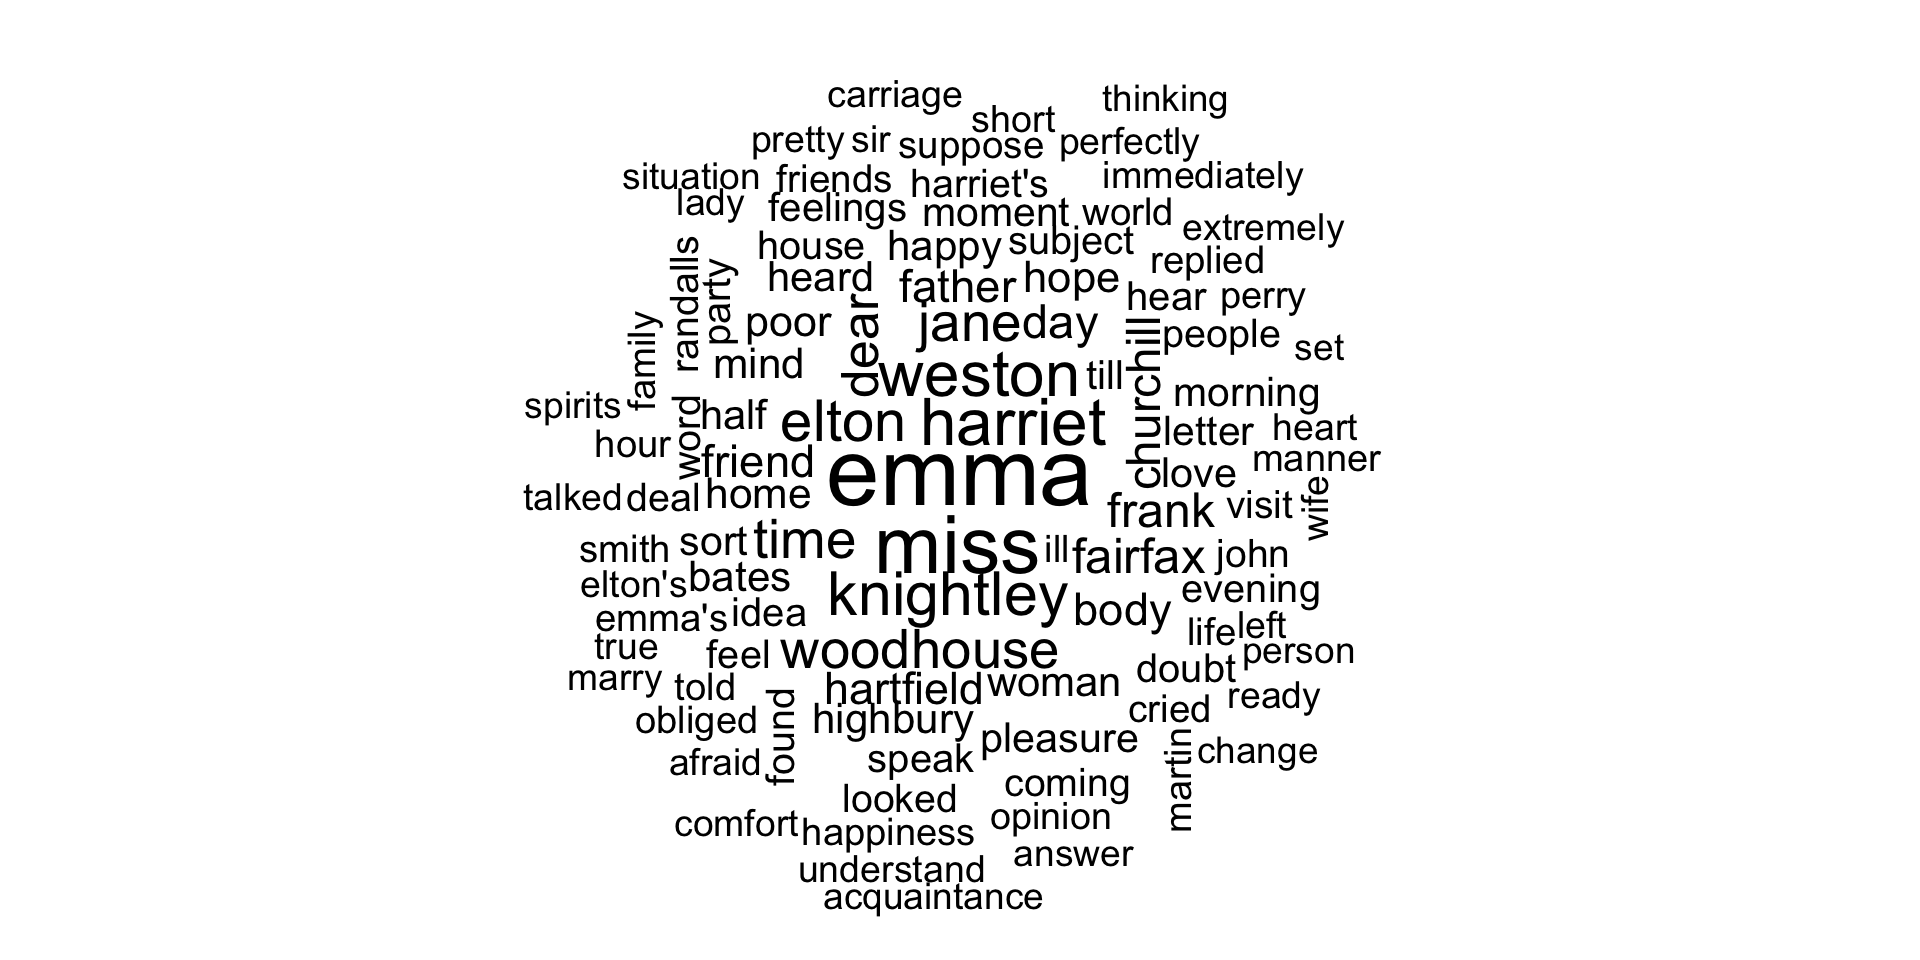
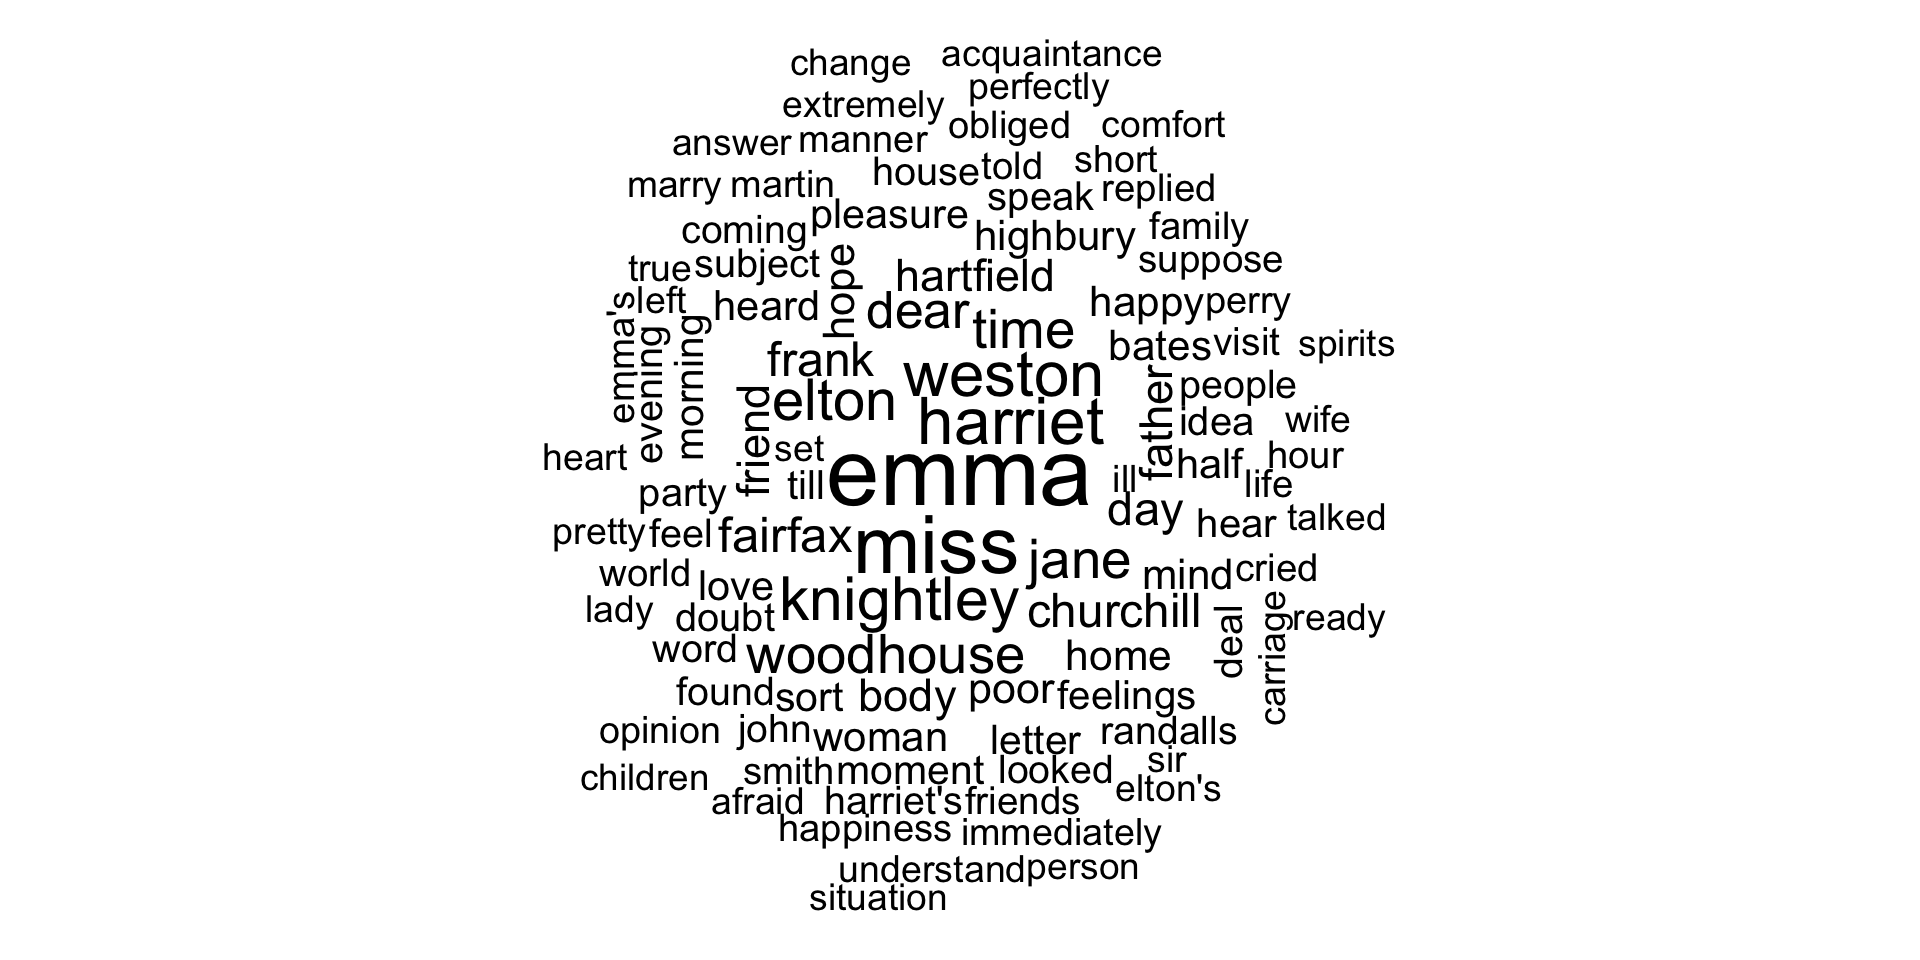
Done with 264!

Changed region(s): [[0.25, 0.0312, 0.75, 0.9688]]

diff --git a/tip_of_the_day/R_tip_of_the_day_slides.html b/tip_of_the_day/R_tip_of_the_day_slides.html
@@ -469,7 +469,7 @@ Solveig Senf
 <span id="cb3-8"><a href=""></a>  <span class="fu">filter</span>(book <span class="sc">==</span> <span class="st">"Emma"</span>) <span class="sc">|&gt;</span></span>
 <span id="cb3-9"><a href=""></a>  <span class="fu">slice_max</span>(<span class="at">order_by =</span> freq, <span class="at">n =</span> <span class="dv">200</span>, <span class="at">with_ties =</span> <span class="cn">FALSE</span>) <span class="sc">|&gt;</span></span>
 <span id="cb3-10"><a href=""></a>  <span class="fu">mutate</span>(<span class="at">freq =</span> <span class="fu">as.numeric</span>(freq),</span>
-<span id="cb3-11"><a href=""></a>         <span class="at">freq =</span> freq<span class="sc">/</span><span class="dv">10</span>) <span class="sc">|&gt;</span></span>
+<span id="cb3-11"><a href=""></a>         <span class="at">freq =</span> freq<span class="sc">/</span><span class="dv">10</span>) <span class="sc">|&gt;</span> </span>
 <span id="cb3-12"><a href=""></a>  <span class="fu">rename</span>(<span class="st">"words"</span> <span class="ot">=</span> <span class="st">"word"</span>) <span class="sc">|&gt;</span></span>
 <span id="cb3-13"><a href=""></a>  <span class="fu">select</span>(<span class="sc">-</span>book)</span></code><button title="Copy to Clipboard" class="code-copy-button"><i class="bi"></i></button></pre></div>
 </section>
@@ -514,8 +514,8 @@ Solveig Senf
 <span id="cb7-2" class="hljs-ln-code"><a href=""></a>           <span class="at">color =</span> <span class="st">"random-dark"</span>)</span></code><button title="Copy to Clipboard" class="code-copy-button"><i class="bi"></i></button></pre></div>
 <div class="cell">
 <div class="cell-output-display">
-<div class="wordcloud2 html-widget html-fill-item" id="htmlwidget-22893948050e8f9f5805" style="width:960px;height:480px;"></div>
-<script type="application/json" data-for="htmlwidget-22893948050e8f9f5805">{"x":{"word":["emma","miss","harriet","weston","knightley","elton","jane","time","woodhouse","dear","fairfax","frank","churchill","day","father","friend","body","hartfield","hope","poor","home","mind","bates","happy","highbury","woman","heard","half","love","pleasure","sort","moment","letter","morning","feelings","till","hear","idea","speak","doubt","subject","evening","party","feel","house","word","people","deal","found","harriet's","looked","randalls","coming","john","visit","friends","cried","suppose","life","world","emma's","replied","hour","smith","told","family","happiness","obliged","manner","perry","ill","martin","opinion","immediately","short","carriage","left","pretty","understand","elton's","perfectly","extremely","heart","lady","ready","sir","talked","true","wife","afraid","comfort","answer","situation","spirits","acquaintance","marry","person","set","change","bad","children","talk","thinking","account","assure","attention","dare","superior","leave","equal","mother","chapter","degree","feeling","isabella","return","sense","walk","business","imagine","passed","brought","cold","hand","manners","minutes","talking","aunt","bear","natural","read","satisfied","walked","care","directly","eyes","usual","weston's","affection","agreeable","days","glad","rest","appeared","brother","cole","dinner","donwell","words","ah","attachment","means","remember","society","wished","daughter","door","pleased","voice","believed","girl","giving","speaking","air","ladies","london","married","walking","called","farther","smile","son","stay","strong","campbell","character","hoped","meant","regard","respect","call","conversation","fine","proper","real","spoke","delightful","impossible","nature","pleasant","power","reason","allowed","beginning","expected","head","kindness","night","sitting","taylor"],"freq":[78.5,59.9,41.5,38.9,35.6,31.9,28.1,27.9,27.7,24.1,21,20,19.3,18.6,16.8,16.6,16.4,15.9,14.3,13.6,13,12.8,12.6,12.5,12.5,12.2,12,11.8,11.7,11.5,11.2,11,10.9,10.8,10.2,10.2,10,10,9.9,9.800000000000001,9.699999999999999,9.6,9.6,9.5,9.5,9.4,9.300000000000001,9.199999999999999,9.199999999999999,9.1,9.1,9,8.9,8.800000000000001,8.6,8.199999999999999,8.1,8.1,8,8,7.9,7.9,7.8,7.8,7.8,7.7,7.6,7.6,7.5,7.4,7.2,7.2,7.1,7,7,6.9,6.8,6.8,6.8,6.7,6.7,6.6,6.6,6.6,6.6,6.6,6.6,6.6,6.6,6.5,6.5,6.4,6.4,6.4,6.3,6.3,6.3,6.3,6.1,6,6,6,6,5.9,5.9,5.9,5.9,5.9,5.8,5.7,5.7,5.6,5.6,5.6,5.6,5.6,5.6,5.6,5.5,5.5,5.5,5.4,5.4,5.3,5.3,5.3,5.3,5.2,5.2,5.2,5.2,5.2,5.2,5.1,5.1,5.1,5.1,5.1,5,5,5,5,5,4.9,4.9,4.9,4.9,4.9,4.9,4.8,4.8,4.8,4.8,4.8,4.8,4.7,4.7,4.7,4.7,4.6,4.6,4.6,4.6,4.5,4.5,4.5,4.5,4.5,4.4,4.4,4.4,4.4,4.4,4.4,4.3,4.3,4.3,4.3,4.3,4.3,4.2,4.2,4.2,4.2,4.2,4.2,4.1,4.1,4.1,4.1,4.1,4.1,4,4,4,4,4,4,4,4],"fontFamily":"Segoe UI","fontWeight":"bold","color":"random-dark","minSize":0,"weightFactor":2.292993630573248,"backgroundColor":"white","gridSize":0,"minRotation":-0.7853981633974483,"maxRotation":0.7853981633974483,"shuffle":true,"rotateRatio":0.4,"shape":"circle","ellipticity":0.65,"figBase64":null,"hover":null},"evals":[],"jsHooks":[]}</script>
+<div class="wordcloud2 html-widget html-fill-item" id="htmlwidget-ed85d5486e51364a1e58" style="width:960px;height:480px;"></div>
+<script type="application/json" data-for="htmlwidget-ed85d5486e51364a1e58">{"x":{"word":["emma","miss","harriet","weston","knightley","elton","jane","time","woodhouse","dear","fairfax","frank","churchill","day","father","friend","body","hartfield","hope","poor","home","mind","bates","happy","highbury","woman","heard","half","love","pleasure","sort","moment","letter","morning","feelings","till","hear","idea","speak","doubt","subject","evening","party","feel","house","word","people","deal","found","harriet's","looked","randalls","coming","john","visit","friends","cried","suppose","life","world","emma's","replied","hour","smith","told","family","happiness","obliged","manner","perry","ill","martin","opinion","immediately","short","carriage","left","pretty","understand","elton's","perfectly","extremely","heart","lady","ready","sir","talked","true","wife","afraid","comfort","answer","situation","spirits","acquaintance","marry","person","set","change","bad","children","talk","thinking","account","assure","attention","dare","superior","leave","equal","mother","chapter","degree","feeling","isabella","return","sense","walk","business","imagine","passed","brought","cold","hand","manners","minutes","talking","aunt","bear","natural","read","satisfied","walked","care","directly","eyes","usual","weston's","affection","agreeable","days","glad","rest","appeared","brother","cole","dinner","donwell","words","ah","attachment","means","remember","society","wished","daughter","door","pleased","voice","believed","girl","giving","speaking","air","ladies","london","married","walking","called","farther","smile","son","stay","strong","campbell","character","hoped","meant","regard","respect","call","conversation","fine","proper","real","spoke","delightful","impossible","nature","pleasant","power","reason","allowed","beginning","expected","head","kindness","night","sitting","taylor"],"freq":[78.5,59.9,41.5,38.9,35.6,31.9,28.1,27.9,27.7,24.1,21,20,19.3,18.6,16.8,16.6,16.4,15.9,14.3,13.6,13,12.8,12.6,12.5,12.5,12.2,12,11.8,11.7,11.5,11.2,11,10.9,10.8,10.2,10.2,10,10,9.9,9.800000000000001,9.699999999999999,9.6,9.6,9.5,9.5,9.4,9.300000000000001,9.199999999999999,9.199999999999999,9.1,9.1,9,8.9,8.800000000000001,8.6,8.199999999999999,8.1,8.1,8,8,7.9,7.9,7.8,7.8,7.8,7.7,7.6,7.6,7.5,7.4,7.2,7.2,7.1,7,7,6.9,6.8,6.8,6.8,6.7,6.7,6.6,6.6,6.6,6.6,6.6,6.6,6.6,6.6,6.5,6.5,6.4,6.4,6.4,6.3,6.3,6.3,6.3,6.1,6,6,6,6,5.9,5.9,5.9,5.9,5.9,5.8,5.7,5.7,5.6,5.6,5.6,5.6,5.6,5.6,5.6,5.5,5.5,5.5,5.4,5.4,5.3,5.3,5.3,5.3,5.2,5.2,5.2,5.2,5.2,5.2,5.1,5.1,5.1,5.1,5.1,5,5,5,5,5,4.9,4.9,4.9,4.9,4.9,4.9,4.8,4.8,4.8,4.8,4.8,4.8,4.7,4.7,4.7,4.7,4.6,4.6,4.6,4.6,4.5,4.5,4.5,4.5,4.5,4.4,4.4,4.4,4.4,4.4,4.4,4.3,4.3,4.3,4.3,4.3,4.3,4.2,4.2,4.2,4.2,4.2,4.2,4.1,4.1,4.1,4.1,4.1,4.1,4,4,4,4,4,4,4,4],"fontFamily":"Segoe UI","fontWeight":"bold","color":"random-dark","minSize":0,"weightFactor":2.292993630573248,"backgroundColor":"white","gridSize":0,"minRotation":-0.7853981633974483,"maxRotation":0.7853981633974483,"shuffle":true,"rotateRatio":0.4,"shape":"circle","ellipticity":0.65,"figBase64":null,"hover":null},"evals":[],"jsHooks":[]}</script>
 </div>
 </div>
 </section>
@@ -528,8 +528,8 @@ Solveig Senf
 <span id="cb8-5"><a href=""></a>           <span class="at">shape =</span> <span class="st">'star'</span>)</span></code><button title="Copy to Clipboard" class="code-copy-button"><i class="bi"></i></button></pre></div>
 <div class="cell">
 <div class="cell-output-display">
-<div class="wordcloud2 html-widget html-fill-item" id="htmlwidget-2985abfe0ce497339f8e" style="width:960px;height:480px;"></div>
-<script type="application/json" data-for="htmlwidget-2985abfe0ce497339f8e">{"x":{"word":["emma","miss","harriet","weston","knightley","elton","jane","time","woodhouse","dear","fairfax","frank","churchill","day","father","friend","body","hartfield","hope","poor","home","mind","bates","happy","highbury","woman","heard","half","love","pleasure","sort","moment","letter","morning","feelings","till","hear","idea","speak","doubt","subject","evening","party","feel","house","word","people","deal","found","harriet's","looked","randalls","coming","john","visit","friends","cried","suppose","life","world","emma's","replied","hour","smith","told","family","happiness","obliged","manner","perry","ill","martin","opinion","immediately","short","carriage","left","pretty","understand","elton's","perfectly","extremely","heart","lady","ready","sir","talked","true","wife","afraid","comfort","answer","situation","spirits","acquaintance","marry","person","set","change","bad","children","talk","thinking","account","assure","attention","dare","superior","leave","equal","mother","chapter","degree","feeling","isabella","return","sense","walk","business","imagine","passed","brought","cold","hand","manners","minutes","talking","aunt","bear","natural","read","satisfied","walked","care","directly","eyes","usual","weston's","affection","agreeable","days","glad","rest","appeared","brother","cole","dinner","donwell","words","ah","attachment","means","remember","society","wished","daughter","door","pleased","voice","believed","girl","giving","speaking","air","ladies","london","married","walking","called","farther","smile","son","stay","strong","campbell","character","hoped","meant","regard","respect","call","conversation","fine","proper","real","spoke","delightful","impossible","nature","pleasant","power","reason","allowed","beginning","expected","head","kindness","night","sitting","taylor"],"freq":[78.5,59.9,41.5,38.9,35.6,31.9,28.1,27.9,27.7,24.1,21,20,19.3,18.6,16.8,16.6,16.4,15.9,14.3,13.6,13,12.8,12.6,12.5,12.5,12.2,12,11.8,11.7,11.5,11.2,11,10.9,10.8,10.2,10.2,10,10,9.9,9.800000000000001,9.699999999999999,9.6,9.6,9.5,9.5,9.4,9.300000000000001,9.199999999999999,9.199999999999999,9.1,9.1,9,8.9,8.800000000000001,8.6,8.199999999999999,8.1,8.1,8,8,7.9,7.9,7.8,7.8,7.8,7.7,7.6,7.6,7.5,7.4,7.2,7.2,7.1,7,7,6.9,6.8,6.8,6.8,6.7,6.7,6.6,6.6,6.6,6.6,6.6,6.6,6.6,6.6,6.5,6.5,6.4,6.4,6.4,6.3,6.3,6.3,6.3,6.1,6,6,6,6,5.9,5.9,5.9,5.9,5.9,5.8,5.7,5.7,5.6,5.6,5.6,5.6,5.6,5.6,5.6,5.5,5.5,5.5,5.4,5.4,5.3,5.3,5.3,5.3,5.2,5.2,5.2,5.2,5.2,5.2,5.1,5.1,5.1,5.1,5.1,5,5,5,5,5,4.9,4.9,4.9,4.9,4.9,4.9,4.8,4.8,4.8,4.8,4.8,4.8,4.7,4.7,4.7,4.7,4.6,4.6,4.6,4.6,4.5,4.5,4.5,4.5,4.5,4.4,4.4,4.4,4.4,4.4,4.4,4.3,4.3,4.3,4.3,4.3,4.3,4.2,4.2,4.2,4.2,4.2,4.2,4.1,4.1,4.1,4.1,4.1,4.1,4,4,4,4,4,4,4,4],"fontFamily":"Futura","fontWeight":"bold","color":"random-light","minSize":0,"weightFactor":1.146496815286624,"backgroundColor":"navyblue","gridSize":0,"minRotation":-0.7853981633974483,"maxRotation":0.7853981633974483,"shuffle":true,"rotateRatio":0.4,"shape":"star","ellipticity":0.65,"figBase64":null,"hover":null},"evals":[],"jsHooks":[]}</script>
+<div class="wordcloud2 html-widget html-fill-item" id="htmlwidget-cadc7af6abc188e6875c" style="width:960px;height:480px;"></div>
+<script type="application/json" data-for="htmlwidget-cadc7af6abc188e6875c">{"x":{"word":["emma","miss","harriet","weston","knightley","elton","jane","time","woodhouse","dear","fairfax","frank","churchill","day","father","friend","body","hartfield","hope","poor","home","mind","bates","happy","highbury","woman","heard","half","love","pleasure","sort","moment","letter","morning","feelings","till","hear","idea","speak","doubt","subject","evening","party","feel","house","word","people","deal","found","harriet's","looked","randalls","coming","john","visit","friends","cried","suppose","life","world","emma's","replied","hour","smith","told","family","happiness","obliged","manner","perry","ill","martin","opinion","immediately","short","carriage","left","pretty","understand","elton's","perfectly","extremely","heart","lady","ready","sir","talked","true","wife","afraid","comfort","answer","situation","spirits","acquaintance","marry","person","set","change","bad","children","talk","thinking","account","assure","attention","dare","superior","leave","equal","mother","chapter","degree","feeling","isabella","return","sense","walk","business","imagine","passed","brought","cold","hand","manners","minutes","talking","aunt","bear","natural","read","satisfied","walked","care","directly","eyes","usual","weston's","affection","agreeable","days","glad","rest","appeared","brother","cole","dinner","donwell","words","ah","attachment","means","remember","society","wished","daughter","door","pleased","voice","believed","girl","giving","speaking","air","ladies","london","married","walking","called","farther","smile","son","stay","strong","campbell","character","hoped","meant","regard","respect","call","conversation","fine","proper","real","spoke","delightful","impossible","nature","pleasant","power","reason","allowed","beginning","expected","head","kindness","night","sitting","taylor"],"freq":[78.5,59.9,41.5,38.9,35.6,31.9,28.1,27.9,27.7,24.1,21,20,19.3,18.6,16.8,16.6,16.4,15.9,14.3,13.6,13,12.8,12.6,12.5,12.5,12.2,12,11.8,11.7,11.5,11.2,11,10.9,10.8,10.2,10.2,10,10,9.9,9.800000000000001,9.699999999999999,9.6,9.6,9.5,9.5,9.4,9.300000000000001,9.199999999999999,9.199999999999999,9.1,9.1,9,8.9,8.800000000000001,8.6,8.199999999999999,8.1,8.1,8,8,7.9,7.9,7.8,7.8,7.8,7.7,7.6,7.6,7.5,7.4,7.2,7.2,7.1,7,7,6.9,6.8,6.8,6.8,6.7,6.7,6.6,6.6,6.6,6.6,6.6,6.6,6.6,6.6,6.5,6.5,6.4,6.4,6.4,6.3,6.3,6.3,6.3,6.1,6,6,6,6,5.9,5.9,5.9,5.9,5.9,5.8,5.7,5.7,5.6,5.6,5.6,5.6,5.6,5.6,5.6,5.5,5.5,5.5,5.4,5.4,5.3,5.3,5.3,5.3,5.2,5.2,5.2,5.2,5.2,5.2,5.1,5.1,5.1,5.1,5.1,5,5,5,5,5,4.9,4.9,4.9,4.9,4.9,4.9,4.8,4.8,4.8,4.8,4.8,4.8,4.7,4.7,4.7,4.7,4.6,4.6,4.6,4.6,4.5,4.5,4.5,4.5,4.5,4.4,4.4,4.4,4.4,4.4,4.4,4.3,4.3,4.3,4.3,4.3,4.3,4.2,4.2,4.2,4.2,4.2,4.2,4.1,4.1,4.1,4.1,4.1,4.1,4,4,4,4,4,4,4,4],"fontFamily":"Futura","fontWeight":"bold","color":"random-light","minSize":0,"weightFactor":1.146496815286624,"backgroundColor":"navyblue","gridSize":0,"minRotation":-0.7853981633974483,"maxRotation":0.7853981633974483,"shuffle":true,"rotateRatio":0.4,"shape":"star","ellipticity":0.65,"figBase64":null,"hover":null},"evals":[],"jsHooks":[]}</script>
 </div>
 </div>
 </section>
